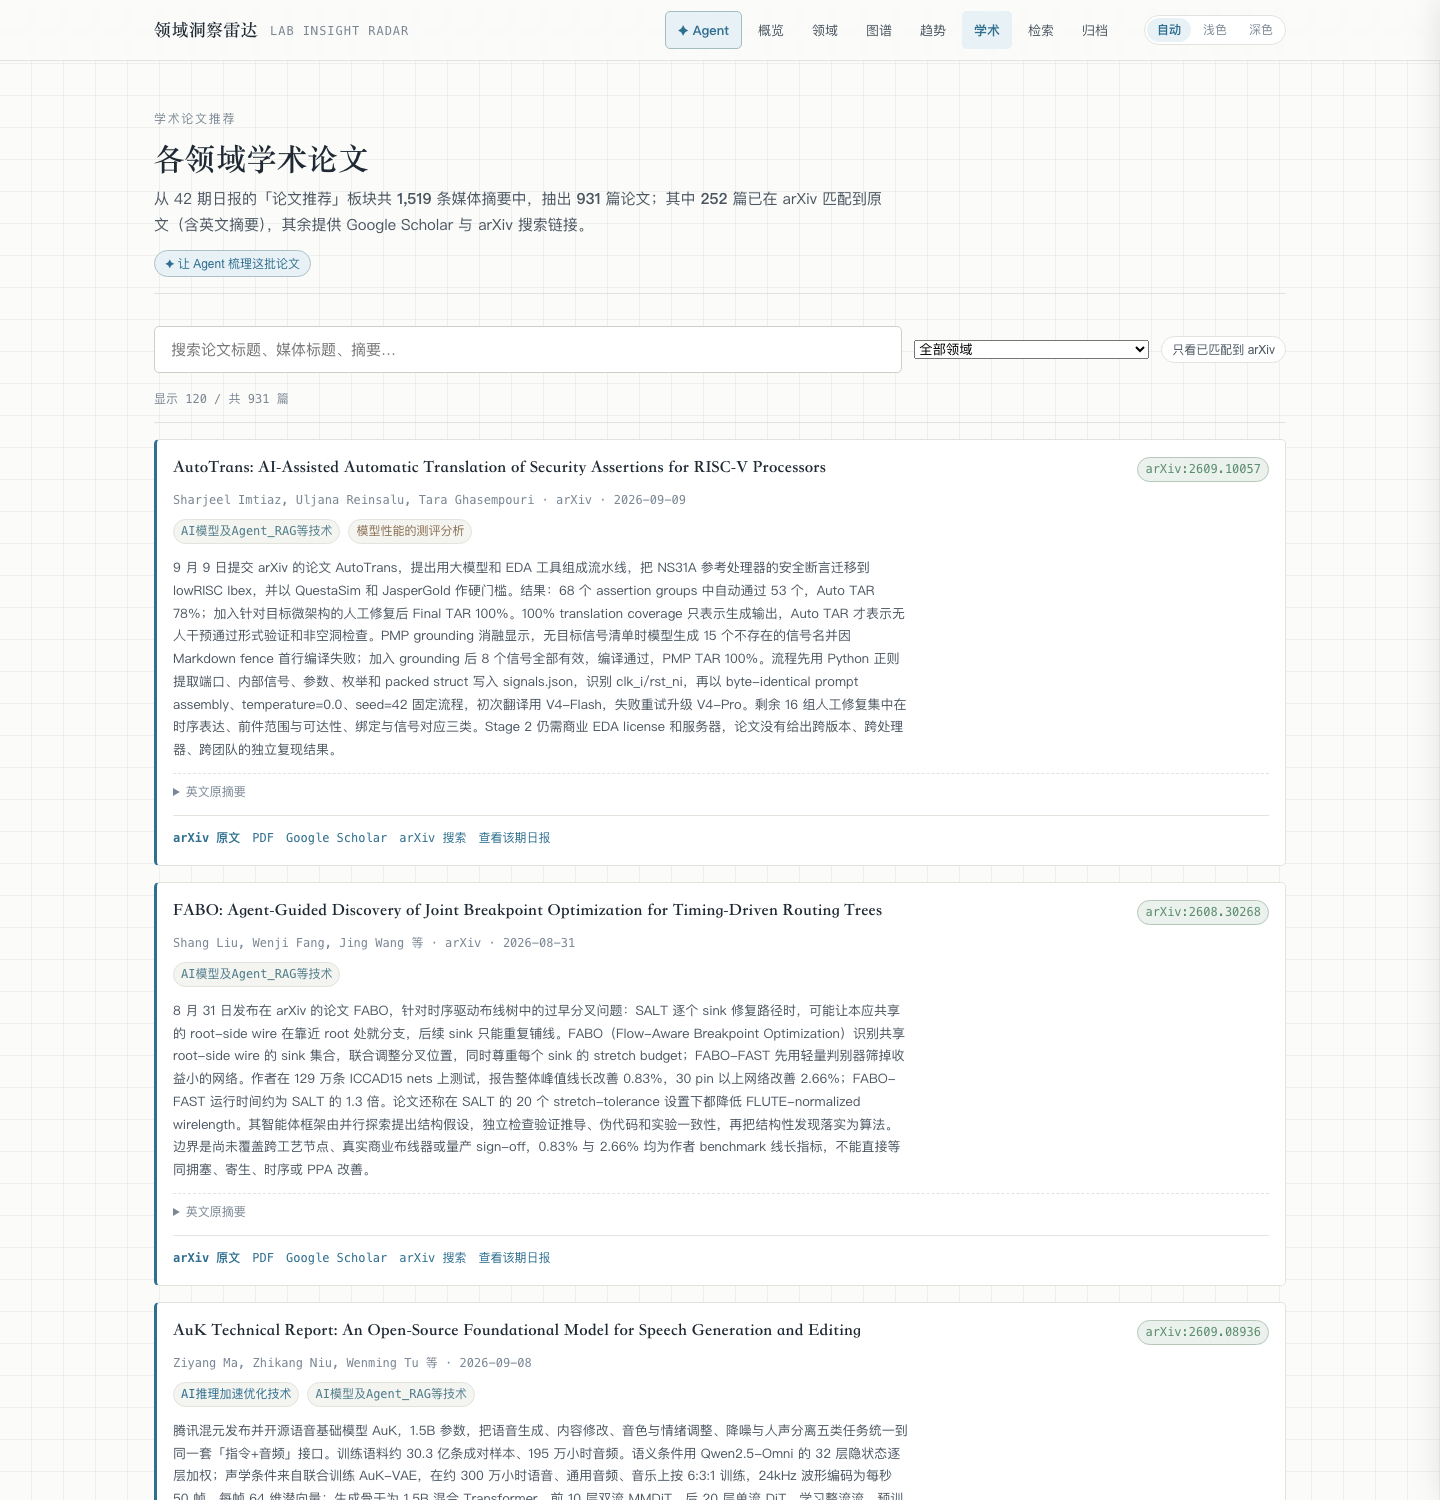
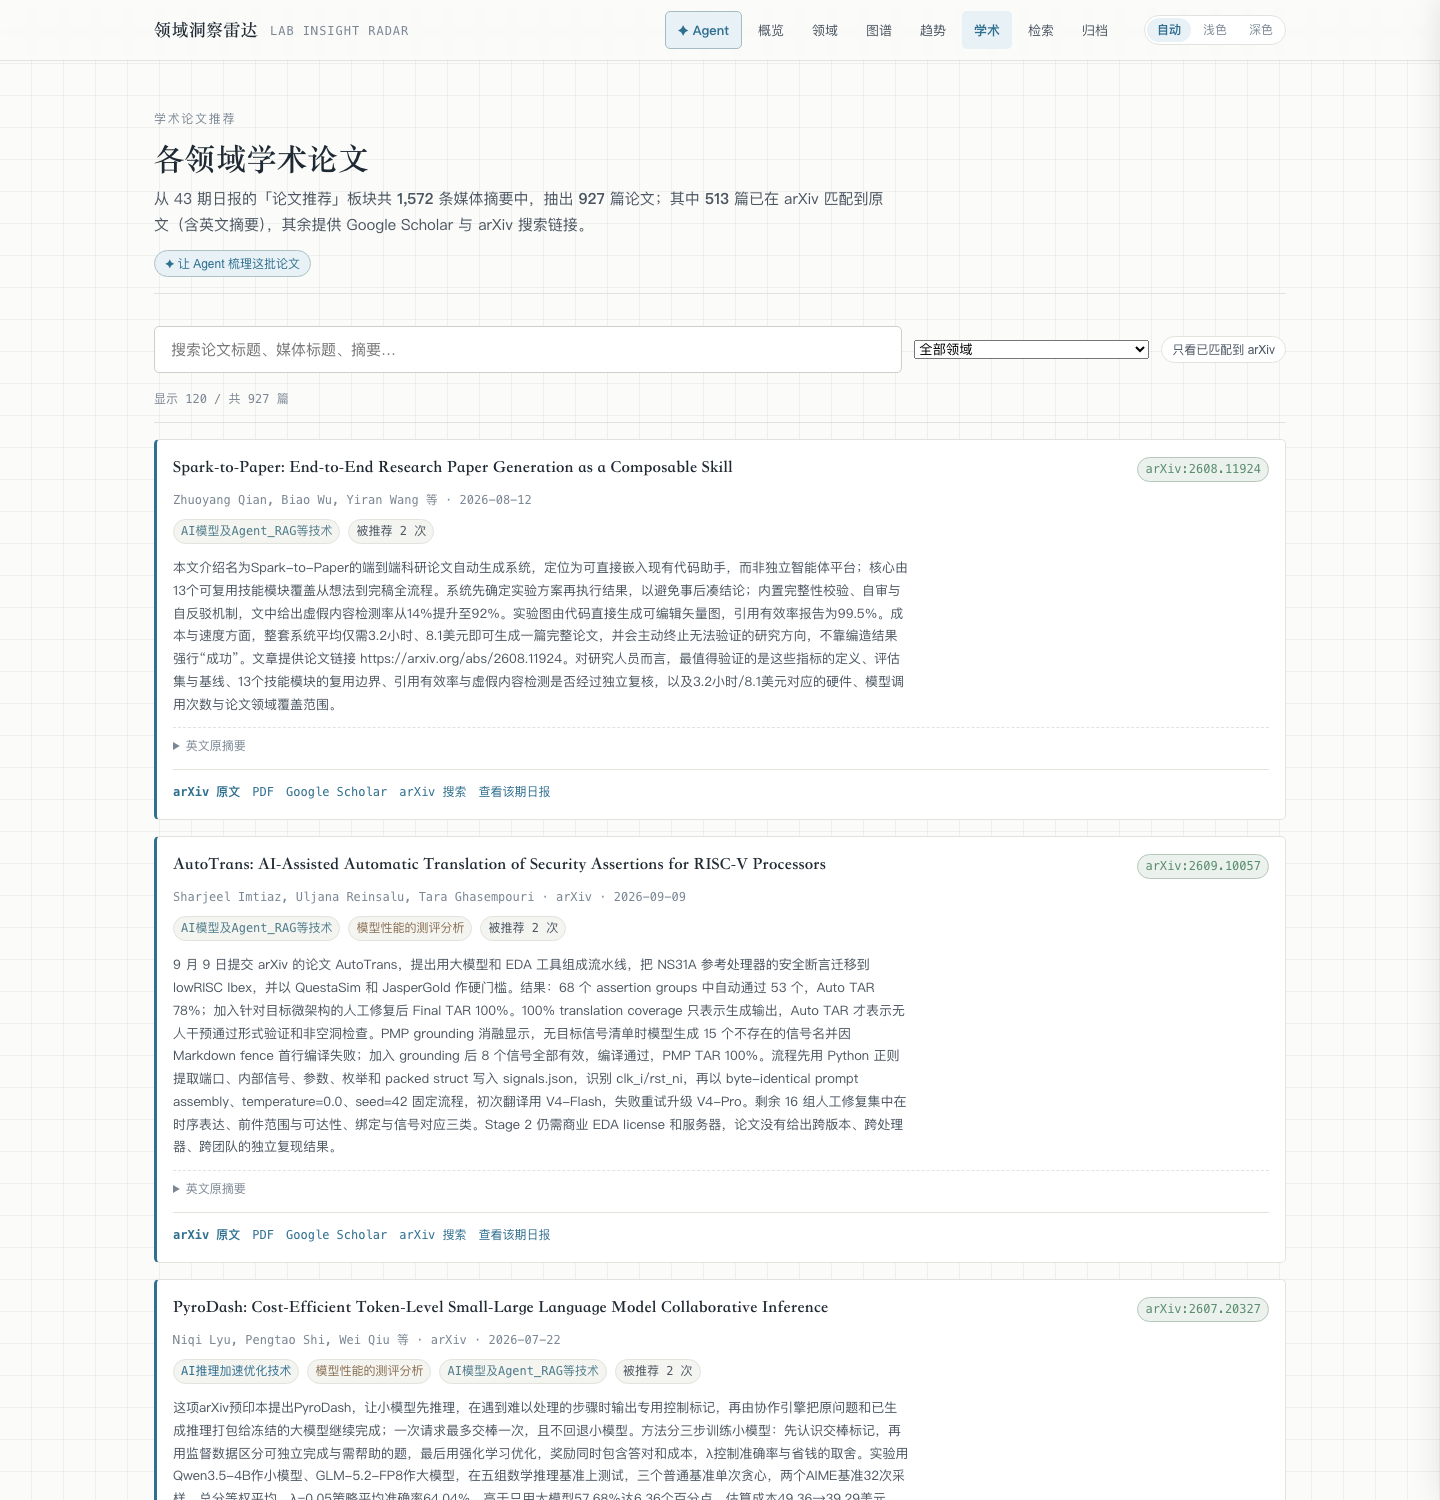
docs: 更新论文页截图（43 期 / 927 篇论文 / 513 篇匹配 arXiv）

diff --git a/README.md b/README.md
@@ -47,7 +47,7 @@ cd web && pnpm preview  # 本地预览 http://localhost:4173/storage-ai-radar/
 |---|---|---|
 | 1. 抽取 | 正则预抽 arXiv 编号 + 书名号英文标题，再由 DeepSeek 逐条判定并抽取论文名/会议/年份/作者 | 3,435 条 → 1,572 条判定为论文，1,524 条抽到标题 |
 | 2. 解析 | arXiv API：有编号按 ID 直查，否则标题检索 + 相似度匹配 | 见 `papers.json` 的 `stats` |
-| 3. 归并 | 同一篇论文多期被反复推荐（最多 6 次）→ 合并成一条，日期/领域取并集 | 817 篇唯一论文 |
+| 3. 归并 | 同一篇论文多期被反复推荐（最多 6 次）→ 合并成一条，日期/领域取并集 | 927 篇唯一论文，其中 513 篇匹配到 arXiv |
 
 **准确率防护**（都是实测踩出来的）：
 - **领域闸门**：论文名 "ATLAS" 这类通用缩写曾命中**希格斯玻色子**论文，
